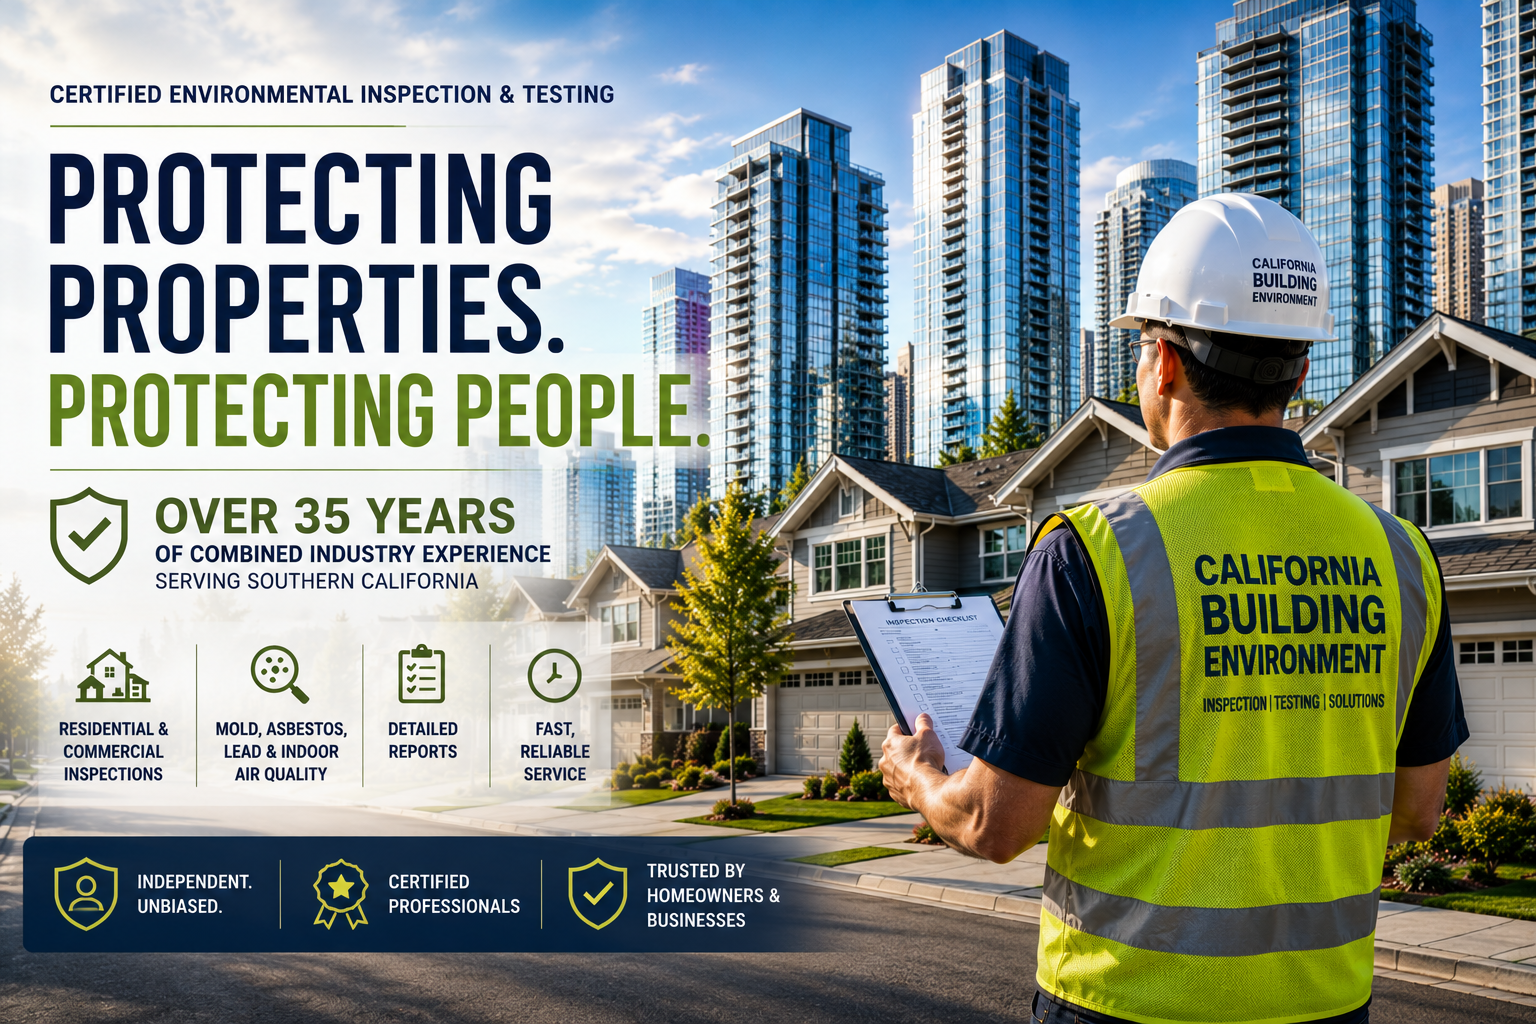
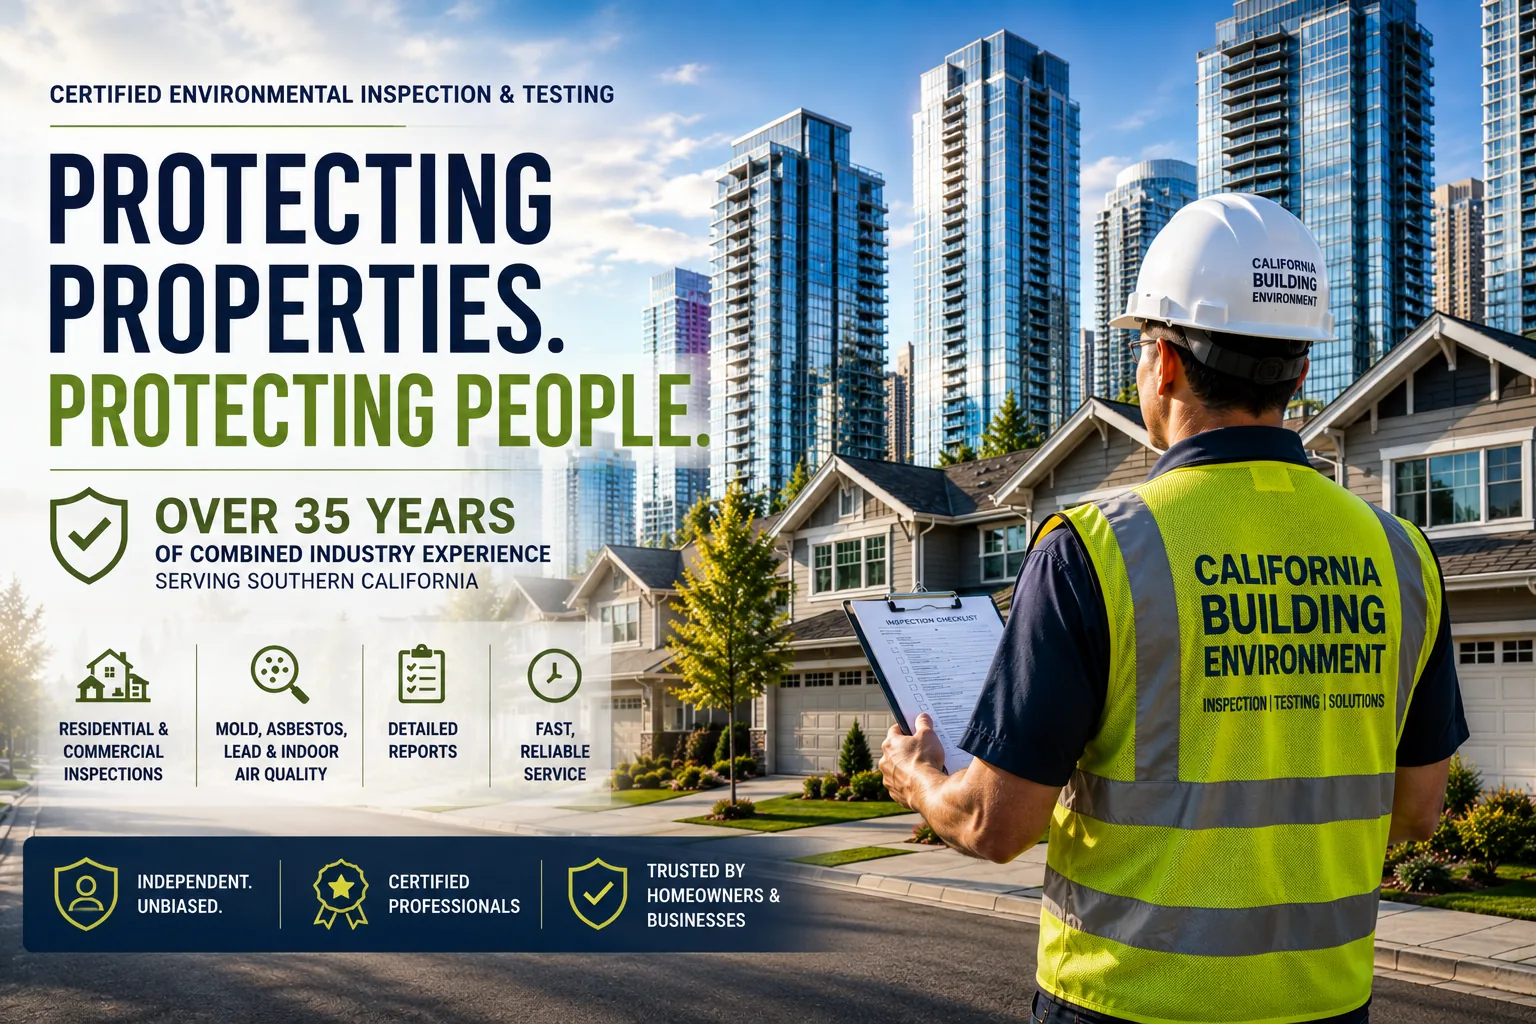
Add files via upload

diff --git a/index.html b/index.html
@@ -150,7 +150,9 @@ Call Now
 <div class="hero-image">
 
 <img src="assets/images/hero.webp"
-alt="Environmental Inspector">
+alt="California Building Environment inspector conducting a certified property inspection in Southern California"
+width="1536" height="1024"
+fetchpriority="high">
 
 </div>
 
